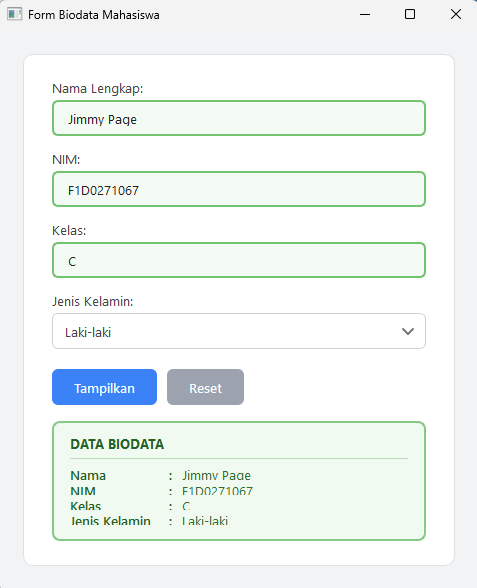
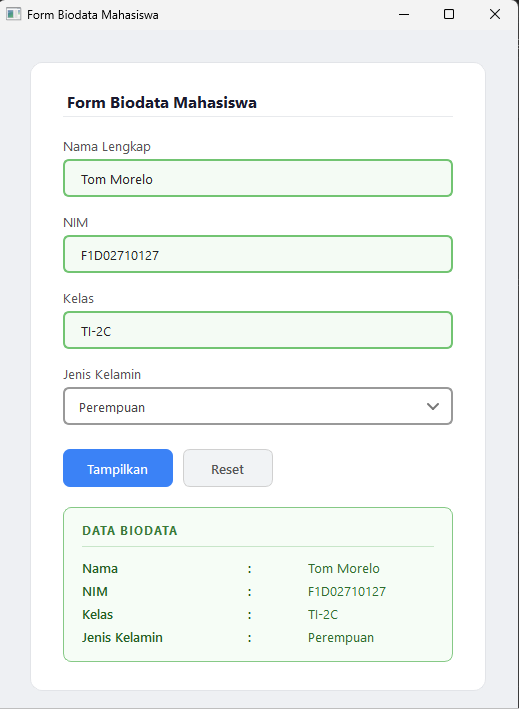
ubah minimum size

diff --git a/Week2-Tugas1.py b/Week2-Tugas1.py
@@ -11,7 +11,7 @@ STYLE_WHITE = """
     QLineEdit {
         border: 1px solid #d0d0d0;
         border-radius: 6px;
-        padding: 8px 12px;
+        padding: 9px 14px;
         background-color: #ffffff;
         color: #222222;
         font-size: 13px;
@@ -22,29 +22,27 @@ STYLE_RED = """
     QLineEdit {
         border: 1.5px solid #e05555;
         border-radius: 6px;
-        padding: 8px 12px;
+        padding: 9px 14px;
         background-color: #fff5f5;
         color: #222222;
         font-size: 13px;
     }
-    QLineEdit:focus { border: 1.5px solid #cc3333; }
 """
 STYLE_GREEN = """
     QLineEdit {
         border: 1.5px solid #72c472;
         border-radius: 6px;
-        padding: 8px 12px;
+        padding: 9px 14px;
         background-color: #f4fbf4;
         color: #222222;
         font-size: 13px;
     }
-    QLineEdit:focus { border: 1.5px solid #4caf50; }
 """
 COMBO_STYLE = """
     QComboBox {
         border: 1px solid #d0d0d0;
         border-radius: 6px;
-        padding: 8px 12px;
+        padding: 9px 14px;
         background-color: #ffffff;
         color: #444444;
         font-size: 13px;
@@ -60,8 +58,8 @@ COMBO_STYLE = """
         font-size: 13px;
     }
 """
-LABEL_STYLE   = "QLabel { color: #444444; font-size: 13px; background: transparent; border: none; }"
-RES_KEY_STYLE = "QLabel { color: #256025; font-size: 13px; font-weight: 600; background: transparent; border: none; }"
+LABEL_STYLE   = "QLabel { color: #555555; font-size: 13px; font-weight: 500; background: transparent; border: none; }"
+RES_KEY_STYLE = "QLabel { color: #256025; font-size: 13px; font-weight: 600; background: transparent; border: none; min-width: 100px; }"
 RES_VAL_STYLE = "QLabel { color: #2e6e2e; font-size: 13px; background: transparent; border: none; }"
 
 
@@ -70,14 +68,14 @@ class ComboWithArrow(QComboBox):
         super().paintEvent(event)
         p = QPainter(self)
         p.setRenderHint(QPainter.Antialiasing)
-        ax, ay = self.width() - 18, self.height() // 2
+        ax, ay = self.width() - 20, self.height() // 2
         pen = QPen(QColor("#777777"))
         pen.setWidth(2)
         pen.setCapStyle(Qt.RoundCap)
         pen.setJoinStyle(Qt.RoundJoin)
         p.setPen(pen)
         p.drawLine(ax - 5, ay - 2, ax, ay + 3)
-        p.drawLine(ax,     ay + 3, ax + 5, ay - 2)
+        p.drawLine(ax, ay + 3, ax + 5, ay - 2)
         p.end()
 
 
@@ -89,67 +87,94 @@ class MainWindow(QWidget):
 
     def setup_ui(self):
         self.setWindowTitle("Form Biodata Mahasiswa")
-        self.resize(480, 560)
-        self.setMinimumSize(320, 420)
-        self.setStyleSheet("QWidget { background-color: #f2f3f5; font-family: 'Segoe UI', Arial, sans-serif; }")
+        self.setMinimumWidth(520)
+        self.setStyleSheet("QWidget { background-color: #eef0f3; font-family: 'Segoe UI', Arial, sans-serif; }")
 
         root = QVBoxLayout(self)
-        root.setContentsMargins(24, 24, 24, 24)
+        root.setContentsMargins(32, 32, 32, 32)
         root.setSpacing(0)
 
         card = QFrame()
         card.setObjectName("card")
-        card.setStyleSheet("QFrame#card { background-color: #ffffff; border-radius: 10px; border: 1px solid #e0e0e0; }")
-        card.setSizePolicy(QSizePolicy.Expanding, QSizePolicy.Expanding)
+        card.setStyleSheet("""
+            QFrame#card {
+                background-color: #ffffff;
+                border-radius: 12px;
+                border: 1px solid #e2e4e8;
+            }
+        """)
+        card.setSizePolicy(QSizePolicy.Expanding, QSizePolicy.Preferred)
 
         cl = QVBoxLayout(card)
-        cl.setContentsMargins(28, 24, 28, 24)
+        cl.setContentsMargins(32, 28, 32, 28)
         cl.setSpacing(0)
 
-        def add_field(label_text, widget, gap=14):
+        title = QLabel("Form Biodata Mahasiswa")
+        title.setStyleSheet("""
+            QLabel {
+                color: #1a1a2e;
+                font-size: 16px;
+                font-weight: 700;
+                background: transparent;
+                border: none;
+                padding-bottom: 4px;
+            }
+        """)
+        cl.addWidget(title)
+
+        divider = QFrame()
+        divider.setFrameShape(QFrame.HLine)
+        divider.setFixedHeight(1)
+        divider.setStyleSheet("QFrame { background-color: #e8eaed; border: none; }")
+        cl.addWidget(divider)
+        cl.addSpacing(20)
+
+        def add_field(label_text, widget, gap=16):
             lbl = QLabel(label_text)
             lbl.setStyleSheet(LABEL_STYLE)
             cl.addWidget(lbl)
-            cl.addSpacing(4)
+            cl.addSpacing(5)
             cl.addWidget(widget)
             cl.addSpacing(gap)
 
         self.input_nama = QLineEdit()
-        self.input_nama.setFixedHeight(36)
+        self.input_nama.setFixedHeight(38)
         self.input_nama.setStyleSheet(STYLE_WHITE)
         self.input_nama.textChanged.connect(lambda: self.update_field_style(self.input_nama))
-        add_field("Nama Lengkap:", self.input_nama)
+        add_field("Nama Lengkap", self.input_nama)
 
         self.input_nim = QLineEdit()
-        self.input_nim.setFixedHeight(36)
+        self.input_nim.setFixedHeight(38)
+        self.input_nim.setPlaceholderText("Masukkan NIM")
         self.input_nim.setStyleSheet(STYLE_WHITE)
         self.input_nim.textChanged.connect(lambda: self.update_field_style(self.input_nim))
-        add_field("NIM:", self.input_nim)
+        add_field("NIM", self.input_nim)
 
         self.input_kelas = QLineEdit()
-        self.input_kelas.setFixedHeight(36)
+        self.input_kelas.setFixedHeight(38)
+        self.input_kelas.setPlaceholderText("Contoh: TI-2A")
         self.input_kelas.setStyleSheet(STYLE_WHITE)
         self.input_kelas.textChanged.connect(lambda: self.update_field_style(self.input_kelas))
-        add_field("Kelas:", self.input_kelas)
+        add_field("Kelas", self.input_kelas)
 
         self.combo_jk = ComboWithArrow()
-        self.combo_jk.addItem("Pilih jenis kelamin")
         self.combo_jk.addItems(["Laki-laki", "Perempuan"])
-        self.combo_jk.setFixedHeight(36)
+        self.combo_jk.setFixedHeight(38)
         self.combo_jk.setStyleSheet(COMBO_STYLE)
-        add_field("Jenis Kelamin:", self.combo_jk, gap=20)
+        add_field("Jenis Kelamin", self.combo_jk, gap=24)
 
         btn_row = QHBoxLayout()
         btn_row.setSpacing(10)
 
         self.btn_tampilkan = QPushButton("Tampilkan")
-        self.btn_tampilkan.setFixedHeight(36)
+        self.btn_tampilkan.setFixedHeight(38)
+        self.btn_tampilkan.setMinimumWidth(110)
         self.btn_tampilkan.setCursor(Qt.PointingHandCursor)
         self.btn_tampilkan.setStyleSheet("""
             QPushButton {
                 background-color: #3b82f6; color: #ffffff;
-                border: none; border-radius: 6px;
-                padding: 0 22px; font-size: 13px; font-weight: 600;
+                border: none; border-radius: 7px;
+                font-size: 13px; font-weight: 600;
             }
             QPushButton:hover   { background-color: #2563eb; }
             QPushButton:pressed { background-color: #1d4ed8; }
@@ -157,16 +182,17 @@ class MainWindow(QWidget):
         self.btn_tampilkan.clicked.connect(self.tampilkan_data)
 
         self.btn_reset = QPushButton("Reset")
-        self.btn_reset.setFixedHeight(36)
+        self.btn_reset.setFixedHeight(38)
+        self.btn_reset.setMinimumWidth(90)
         self.btn_reset.setCursor(Qt.PointingHandCursor)
         self.btn_reset.setStyleSheet("""
             QPushButton {
-                background-color: #9ca3af; color: #ffffff;
-                border: none; border-radius: 6px;
-                padding: 0 22px; font-size: 13px; font-weight: 600;
+                background-color: #f1f3f5; color: #555555;
+                border: 1px solid #d0d0d0; border-radius: 7px;
+                font-size: 13px; font-weight: 600;
             }
-            QPushButton:hover   { background-color: #6b7280; }
-            QPushButton:pressed { background-color: #4b5563; }
+            QPushButton:hover   { background-color: #e2e6ea; }
+            QPushButton:pressed { background-color: #ced4da; }
         """)
         self.btn_reset.clicked.connect(self.reset_form)
 
@@ -174,37 +200,55 @@ class MainWindow(QWidget):
         btn_row.addWidget(self.btn_reset)
         btn_row.addStretch()
         cl.addLayout(btn_row)
-        cl.addSpacing(16)
+        cl.addSpacing(20)
 
         self.result_frame = QFrame()
         self.result_frame.setObjectName("resultFrame")
-        self.result_frame.setStyleSheet("QFrame#resultFrame { background-color: #f0faf0; border: 1.5px solid #86c986; border-radius: 8px; }")
+        self.result_frame.setStyleSheet("""
+            QFrame#resultFrame {
+                background-color: #f6fdf6;
+                border: 1px solid #86c986;
+                border-radius: 8px;
+            }
+        """)
         self.result_frame.setVisible(False)
 
         rl = QVBoxLayout(self.result_frame)
-        rl.setContentsMargins(16, 12, 16, 14)
-        rl.setSpacing(6)
+        rl.setContentsMargins(18, 14, 18, 16)
+        rl.setSpacing(8)
 
         res_title = QLabel("DATA BIODATA")
-        res_title.setStyleSheet("QLabel { font-weight: 700; font-size: 13px; color: #256025; background: transparent; border: none; }")
+        res_title.setStyleSheet("""
+            QLabel {
+                font-weight: 700;
+                font-size: 12px;
+                color: #3a7a3a;
+                letter-spacing: 1px;
+                background: transparent;
+                border: none;
+            }
+        """)
         rl.addWidget(res_title)
 
         sep = QFrame()
         sep.setFrameShape(QFrame.HLine)
         sep.setFixedHeight(1)
-        sep.setStyleSheet("QFrame { background-color: #b8ddb8; border: none; }")
+        sep.setStyleSheet("QFrame { background-color: #c8e6c9; border: none; }")
         rl.addWidget(sep)
 
         grid = QGridLayout()
         grid.setContentsMargins(0, 4, 0, 0)
-        grid.setHorizontalSpacing(6)
-        grid.setVerticalSpacing(5)
-        grid.setColumnMinimumWidth(0, 90)
-        grid.setColumnMinimumWidth(1, 10)
+        grid.setHorizontalSpacing(8)
+        grid.setVerticalSpacing(6)
+        grid.setColumnMinimumWidth(0, 110)
+        grid.setColumnMinimumWidth(1, 12)
         grid.setColumnStretch(2, 1)
 
         self.val_labels = {}
-        for i, (key, attr) in enumerate(zip(["Nama", "NIM", "Kelas", "Jenis Kelamin"], ["nama", "nim", "kelas", "jk"])):
+        for i, (key, attr) in enumerate(zip(
+            ["Nama", "NIM", "Kelas", "Jenis Kelamin"],
+            ["nama", "nim", "kelas", "jk"]
+        )):
             k = QLabel(key)
             k.setStyleSheet(RES_KEY_STYLE)
             k.setAlignment(Qt.AlignLeft | Qt.AlignVCenter)
@@ -218,16 +262,16 @@ class MainWindow(QWidget):
             v.setAlignment(Qt.AlignLeft | Qt.AlignVCenter)
             v.setWordWrap(True)
 
-            grid.addWidget(k, i, 0)
+            grid.addWidget(k,     i, 0)
             grid.addWidget(colon, i, 1)
-            grid.addWidget(v, i, 2)
+            grid.addWidget(v,     i, 2)
             self.val_labels[attr] = v
 
         rl.addLayout(grid)
         cl.addWidget(self.result_frame)
-        cl.addStretch()
 
         root.addWidget(card)
+        self.adjustSize()
 
     def update_field_style(self, field):
         if field.text().strip():
@@ -247,6 +291,7 @@ class MainWindow(QWidget):
 
         if not nama or not nim or not kelas or jk_idx == 0:
             self.result_frame.setVisible(False)
+            self.adjustSize()
             return
 
         self.val_labels["nama"].setText(nama)
@@ -254,6 +299,7 @@ class MainWindow(QWidget):
         self.val_labels["kelas"].setText(kelas)
         self.val_labels["jk"].setText(self.combo_jk.currentText())
         self.result_frame.setVisible(True)
+        self.adjustSize()
 
     def reset_form(self):
         self.submitted = False
@@ -264,6 +310,7 @@ class MainWindow(QWidget):
         for f in [self.input_nama, self.input_nim, self.input_kelas]:
             f.setStyleSheet(STYLE_WHITE)
         self.result_frame.setVisible(False)
+        self.adjustSize()
 
 
 def main():
